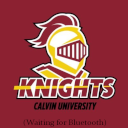
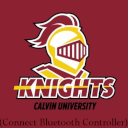
updated startup background

Changed region(s): [[0.0625, 0.9062, 1.0, 1.0], [0.0, 0.9062, 0.0625, 1.0]]

diff --git a/mainMenu.py b/mainMenu.py
@@ -6,7 +6,7 @@ import os
 
 # Initialize canvas
 bt1device = "/dev/input/event1"
-print(f"Checking for Bluetooth adapter at {bt1device}")
+#print(f"Checking for Bluetooth adapter at {bt1device}")
 while os.path.exists(bt1device) == False:
     time.sleep(1)
 gamepad = InputDevice(bt1device)
